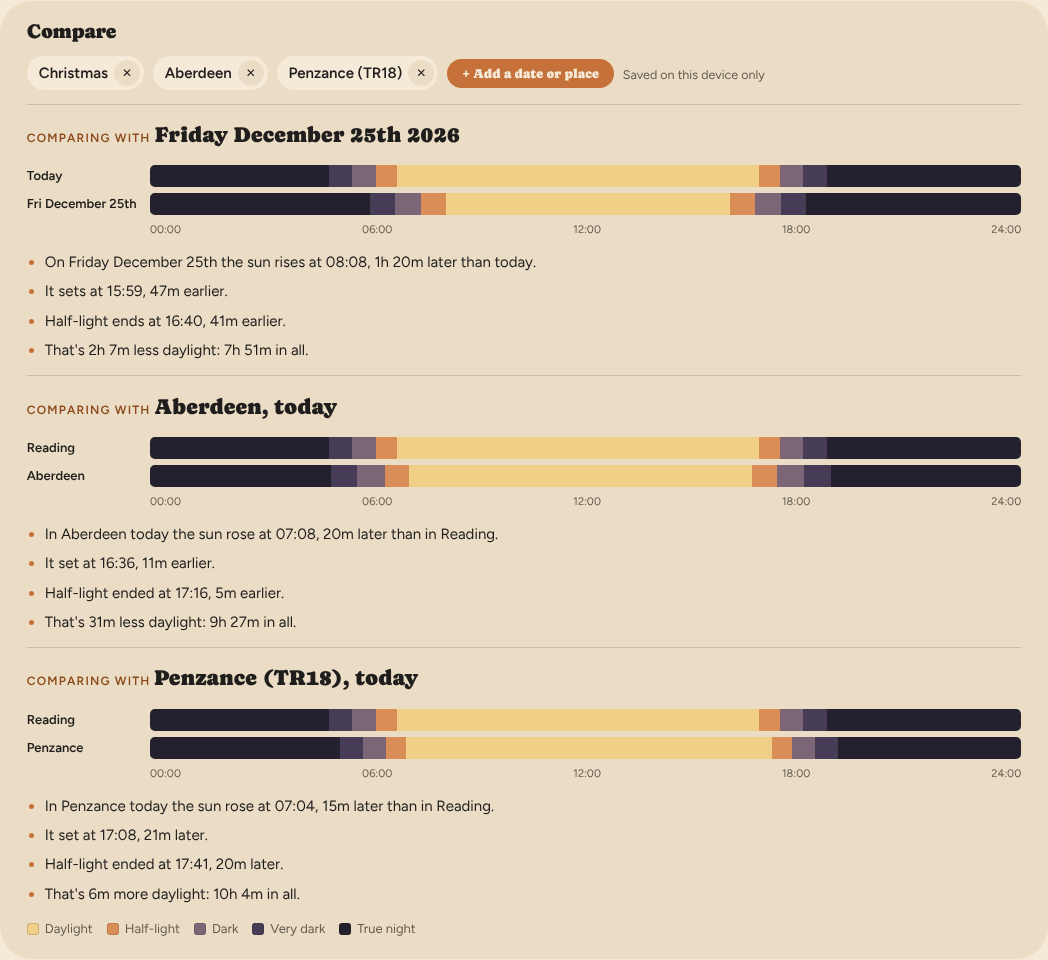
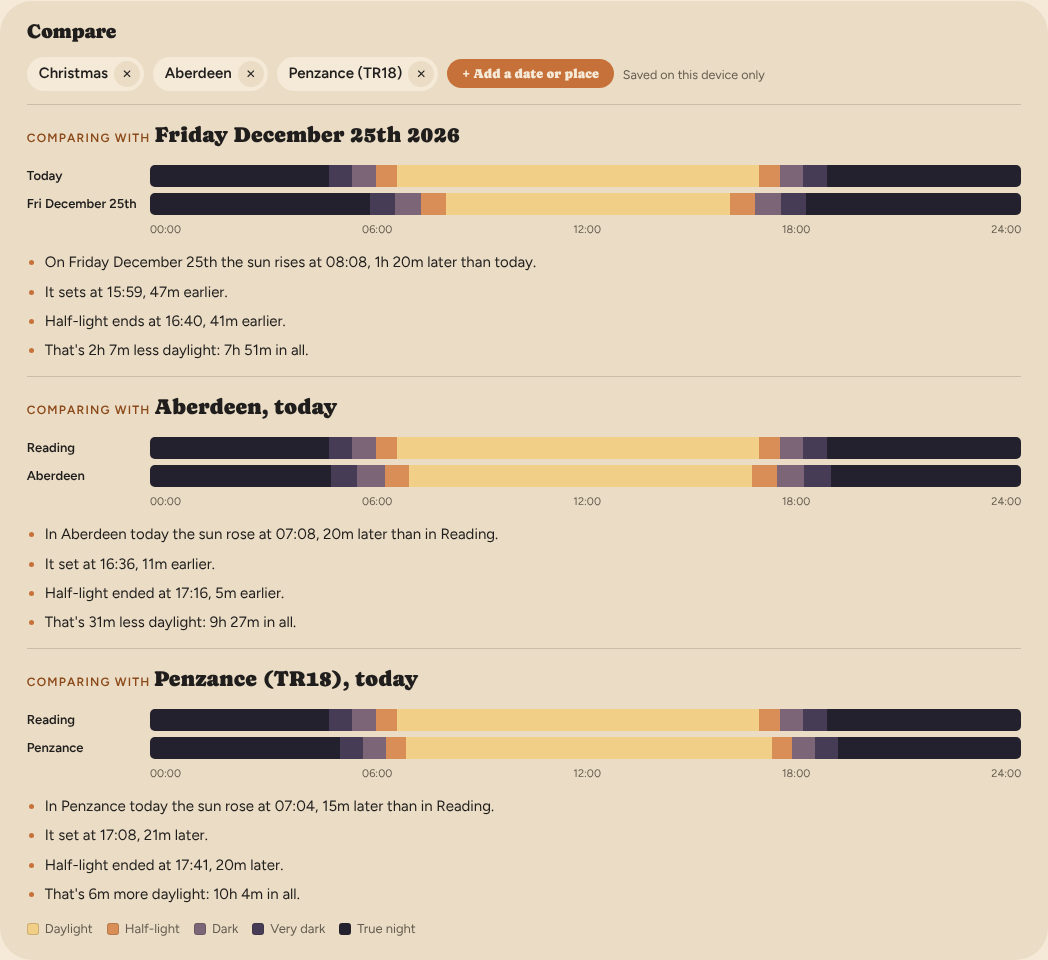
Stage 7: dark mode, as Hindcaster's
Claude-Session: https://claude.ai/code/session_01BsvHLKDMCYVanWPFUm8Pot

diff --git a/src/styles/global.css b/src/styles/global.css
@@ -234,6 +234,64 @@ body { margin: 0; background: var(--color-bg); }
   .year-detail-big .dot { display: none; }
 }
 
+/* Dark mode, as Hindcaster's (HOUSE-STYLE §2): light unless the visitor switches
+   (src/lib/theme.ts); the same tokens as organic.css given dark values, and the band colours'
+   dark set from SPEC §4. Screen only, so a printed page is always light. */
+@media screen {
+  :root[data-theme="dark"] {
+    color-scheme: dark;
+    --color-bg: #2a2723;
+    --color-surface: #37332e;
+    --color-text: #e8dfcf;
+    --color-accent: #dd8a56;
+    --color-divider: color-mix(in srgb, #e8dfcf 16%, transparent);
+    --color-neutral-100: #423d36;
+    --color-neutral-700: #b0a593;
+    --color-neutral-800: #e3d9c7;
+    --color-accent-100: #4a2a14;
+    --color-accent-300: #b2622d;
+    --color-accent-600: #e8935d;
+    --color-accent-700: #f2a573;
+    --color-accent-800: #ffc6a5;
+    --color-accent-2-100: #2f3a20;
+    --color-accent-2-800: #d4e4b8;
+    --shadow-sm: 0 0 0 1px color-mix(in srgb, #e8dfcf 6%, transparent), 0 1px 2px #0006;
+    --shadow-md: 0 0 0 1px color-mix(in srgb, #e8dfcf 7%, transparent), 0 3px 10px #0008;
+    --shadow-lg: 0 0 0 1px color-mix(in srgb, #e8dfcf 8%, transparent), 0 12px 32px #000a;
+    /* The band colours' dark set (SPEC §4). */
+    --band-daylight: #d8b46e;
+    --band-half-light: #c27a48;
+    --band-dark: #6c5868;
+    --band-very-dark: #3d344f;
+    --band-true-night: #0f0e16;
+  }
+  /* Ink on the two light bands, whatever the theme; and on the open month's button. */
+  :root[data-theme="dark"] .band-tag.band-daylight, :root[data-theme="dark"] .band-tag.band-half-light { color: #201e1d; }
+  :root[data-theme="dark"] .chip-button.is-open { color: var(--color-bg); }
+}
+
+.nav-right { display: flex; align-items: center; gap: var(--space-3); min-width: 0; }
+.theme-switch { display: inline-flex; align-items: center; gap: 8px; flex: none; background: none; border: 0; padding: 4px 0; cursor: pointer; color: var(--color-neutral-700); font: inherit; }
+.theme-switch:focus-visible { outline: 2px solid var(--color-accent); outline-offset: 2px; border-radius: 999px; }
+.theme-switch-label { font-size: 10px; letter-spacing: 0.1em; text-transform: uppercase; font-weight: 600; }
+.theme-switch-track { position: relative; width: 46px; height: 26px; border-radius: 999px; background: color-mix(in srgb, var(--color-text) 18%, transparent); transition: background 0.2s; }
+.theme-switch-knob { position: absolute; top: 3px; left: 3px; width: 20px; height: 20px; border-radius: 50%; background: var(--color-bg); box-shadow: 0 1px 3px #0004; display: grid; place-items: center; color: var(--color-accent); transition: transform 0.2s; }
+.theme-switch[aria-checked="true"] .theme-switch-track { background: var(--color-accent); }
+.theme-switch[aria-checked="true"] .theme-switch-knob { transform: translateX(20px); }
+.theme-switch svg { width: 12px; height: 12px; display: block; }
+@media (prefers-reduced-motion: reduce) {
+  .theme-switch-track, .theme-switch-knob { transition: none; }
+}
+@media (max-width: 720px) {
+  .theme-switch { min-height: 44px; }
+  .theme-switch-label { display: none; }
+  .nav-right { gap: var(--space-2); }
+  /* On a phone the switch stays beside the name, and the postcode pill goes underneath. */
+  .nav-right { display: contents; }
+  .nav .theme-switch { order: 1; margin-left: auto; }
+  .nav .pill { order: 2; }
+}
+
 @media print {
   @page { size: A4 portrait; margin: 12mm; }
   html, body { background: #fff; }

diff --git a/src/App.tsx b/src/App.tsx
@@ -10,6 +10,7 @@ import { PostcodeBox } from './components/PostcodeBox.tsx'
 import { CompareCard } from './components/Compare.tsx'
 import { LightAtCard } from './components/LightAt.tsx'
 import { SentenceGroups } from './components/Sentences.tsx'
+import { ThemeSwitch } from './components/ThemeSwitch.tsx'
 import { SkyRibbonNarrow, SkyRibbonWide } from './components/SkyRibbon.tsx'
 import { YearCards } from './components/Year.tsx'
 import { POSTCODE_CREDITS, saveDistrict, savedDistrict, type District } from './lib/postcode.ts'
@@ -114,12 +115,15 @@ export default function App() {
     <>
       <nav className="nav" data-noprint>
         <span className="nav-brand"><Logo /> Lightreader</span>
-        {d && !changing && (
-          <span className="pill">
-            {d.name} ({d.code})
-            <button className="btn btn-primary btn-small" type="button" onClick={() => setChanging(true)}>Change</button>
-          </span>
-        )}
+        <div className="nav-right">
+          {d && !changing && (
+            <span className="pill">
+              {d.name} ({d.code})
+              <button className="btn btn-primary btn-small" type="button" onClick={() => setChanging(true)}>Change</button>
+            </span>
+          )}
+          <ThemeSwitch />
+        </div>
       </nav>
       <main className="col screen">
         {(!d || changing) && (

diff --git a/src/components/ThemeSwitch.tsx b/src/components/ThemeSwitch.tsx
@@ -1,0 +1,22 @@
+import { setDark, useDark } from '../lib/theme.ts'
+
+// The dark mode switch at the top right (as Hindcaster's, after DPD's tracking page): a sun
+// in light mode, a moon in dark. On a phone the "Dark" label is dropped to fit beside the
+// postcode pill; the switch keeps its name for screen readers.
+export function ThemeSwitch() {
+  const dark = useDark()
+  return (
+    <button type="button" className="theme-switch" role="switch" aria-checked={dark} aria-label="Dark mode" onClick={() => setDark(!dark)}>
+      <span className="theme-switch-label" aria-hidden="true">Dark</span>
+      <span className="theme-switch-track" aria-hidden="true">
+        <span className="theme-switch-knob">
+          {dark ? (
+            <svg viewBox="0 0 24 24" fill="none" stroke="currentColor" strokeWidth="2.4" strokeLinecap="round" strokeLinejoin="round"><path d="M12 3a6 6 0 0 0 9 9 9 9 0 1 1-9-9Z" /></svg>
+          ) : (
+            <svg viewBox="0 0 24 24" fill="none" stroke="currentColor" strokeWidth="2.4" strokeLinecap="round"><circle cx="12" cy="12" r="4" /><path d="M12 2v2M12 20v2M4.9 4.9l1.4 1.4M17.7 17.7l1.4 1.4M2 12h2M20 12h2M4.9 19.1l1.4-1.4M17.7 6.3l1.4-1.4" /></svg>
+          )}
+        </span>
+      </span>
+    </button>
+  )
+}

diff --git a/src/lib/theme.ts b/src/lib/theme.ts
@@ -1,0 +1,33 @@
+import { useSyncExternalStore } from 'react'
+
+// Light or dark mode (as Hindcaster's, HOUSE-STYLE §2; SPEC §4). Light unless the visitor
+// switches; kept in this browser only, like the visitor's other choices. The small script in index.html reads the same key
+// before the page draws, so a dark-mode visitor never sees a flash of the light page; a
+// private window or blocked storage just gets light.
+const KEY = 'lightreader.theme'
+const listeners = new Set<() => void>()
+
+let dark = document.documentElement.dataset.theme === 'dark'
+
+export function setDark(value: boolean) {
+  dark = value
+  if (value) document.documentElement.dataset.theme = 'dark'
+  else delete document.documentElement.dataset.theme
+  try {
+    if (value) localStorage.setItem(KEY, 'dark')
+    else localStorage.removeItem(KEY)
+  } catch {
+    // Not kept; it still changes for this visit.
+  }
+  listeners.forEach((l) => l())
+}
+
+export function useDark(): boolean {
+  return useSyncExternalStore(
+    (l) => {
+      listeners.add(l)
+      return () => listeners.delete(l)
+    },
+    () => dark,
+  )
+}

diff --git a/index.html b/index.html
@@ -4,6 +4,11 @@
     <meta charset="UTF-8" />
     <meta name="viewport" content="width=device-width, initial-scale=1.0" />
     <title>Lightreader</title>
+    <!-- Dark mode: set before the page draws, so a visitor who chose it never sees a flash of
+         the light page. The same key as src/lib/theme.ts. -->
+    <script>
+      try { if (localStorage.getItem('lightreader.theme') === 'dark') document.documentElement.dataset.theme = 'dark' } catch (e) {}
+    </script>
   </head>
   <body>
     <div id="root"></div>

diff --git a/CLAUDE.md b/CLAUDE.md
@@ -664,3 +664,32 @@ sunset over the sea, the visitor's own place never named; Reading's full set of 
 updated); in Chromium at 1200px and 390px with touch, Reading, Brighton and Darlington (no
 places either way): the card as above, the sentences in about a second as before, no errors,
 no sideways scroll. Pictures `design/previews/stage6-directions-*.png`.
+
+### 2026-10-28 — stage 7 begun: dark mode (branch `claude/nice-goodall-j1r6wu`)
+
+**John:** he had redrafted the opening wording in chat (the line under the heading and the
+footer's "recent selections", both already in); go on to stage 7.
+
+**What:** dark mode copied from Hindcaster (HOUSE-STYLE §2):
+- `src/lib/theme.ts` (key `lightreader.theme`) and `src/components/ThemeSwitch.tsx`, at the
+  top right.
+- A few lines in `index.html` set dark mode before the page draws.
+- `global.css` has Hindcaster's dark tokens plus SPEC §4's dark band colours. Ink is kept on
+  the daylight and half-light tags, and the page background colour is used for the text of
+  the open month's button.
+- Screen only, so printing is always light.
+- On a phone the switch sits beside "Lightreader", with the postcode pill on the row below.
+- The footer's "stores your recent selections" already covers the choice.
+
+**Verified:** `npx tsc -b`, lint, `npm run check` (14 + 12 + 11). In Chromium at 1200px and
+390px with touch:
+- the switch on the first visit; still dark after choosing RG1 and a reload;
+- the whole page looked over in dark (ribbon, sentences, "Is it light at…?", Compare, the
+  year, October's day cards);
+- printing gives white;
+- switching back clears the stored choice;
+- the stage 4 and 5 runs in light as before;
+- no errors, no sideways scroll.
+
+Pictures `design/previews/stage7-dark-*.png`. **Couldn't be checked:** a real phone; Safari's
+toolbar colour.

diff --git a/PLAN.md b/PLAN.md
@@ -214,6 +214,7 @@ Branch: `stage-7-launch`
 
 - Dark mode with Hindcaster's switch, light by default (question 2 decides
   the colours). Mock-ups in both themes first.
+  **Built (28 October), for John to look at on the preview.**
 - Favicon options, then a link-preview image (house style §7).
 - Search: title, description, canonical address, `robots.txt`, `sitemap.xml`
   (`SEO-HANDOVER.md` checklist).
